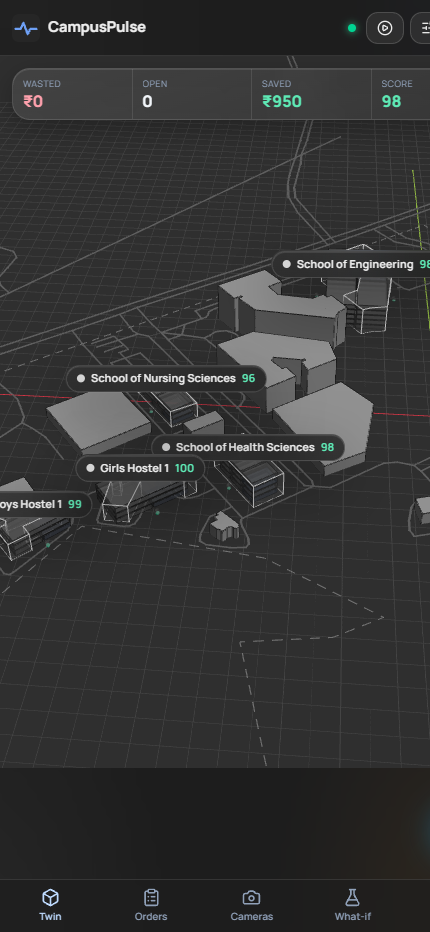
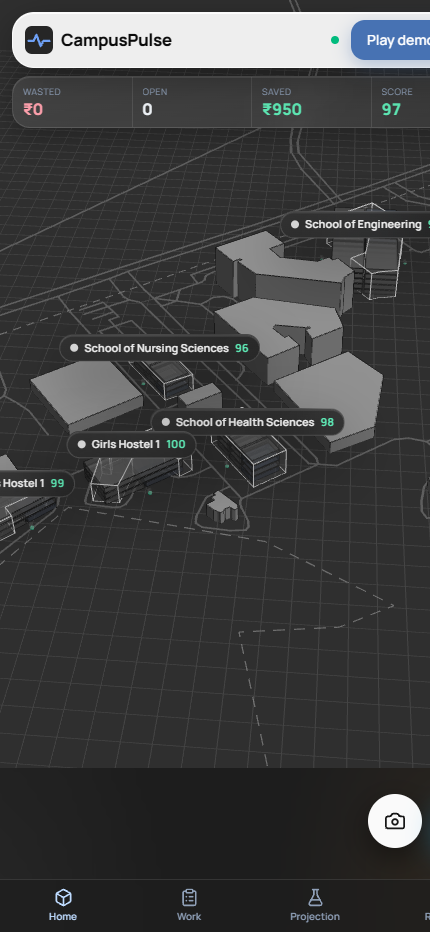
Floating pill navbar (Home, Work, Projection, Report) and separate camera button

diff --git a/frontend/src/App.jsx b/frontend/src/App.jsx
@@ -1,6 +1,6 @@
 import { lazy, Suspense, useEffect, useRef, useState } from 'react'
-import { NavLink, Route, Routes } from 'react-router-dom'
-import { Box, Camera, ClipboardList, FileText, FlaskConical, Loader2, PlayCircle } from 'lucide-react'
+import { NavLink, Route, Routes, useLocation } from 'react-router-dom'
+import { ArrowRight, Box, Camera, ClipboardList, FileText, FlaskConical, Loader2 } from 'lucide-react'
 import { useStore } from './store'
 import TelegramIcon from './components/TelegramIcon'
 import PhonePanel from './components/PhonePanel'
@@ -16,12 +16,12 @@ const IssuesPage = lazy(() => import('./pages/IssuesPage'))
 const WhatIfPage = lazy(() => import('./pages/WhatIfPage'))
 const ReportsPage = lazy(() => import('./pages/ReportsPage'))
 
+// Cameras is not in the nav: it has its own floating button next to the Telegram one
 const NAV = [
-  { to: '/', label: 'Twin', icon: Box },
-  { to: '/issues', label: 'Work orders', short: 'Orders', icon: ClipboardList },
-  { to: '/cameras', label: 'Cameras', icon: Camera },
-  { to: '/whatif', label: 'What-if', icon: FlaskConical },
-  { to: '/reports', label: 'Reports', icon: FileText },
+  { to: '/', label: 'Home', icon: Box },
+  { to: '/issues', label: 'Work', icon: ClipboardList },
+  { to: '/whatif', label: 'Projection', icon: FlaskConical },
+  { to: '/reports', label: 'Report', icon: FileText },
 ]
 
 function Clock() {
@@ -32,8 +32,8 @@ function Clock() {
   const d = new Date(clock)
   return (
     <div className="text-right leading-tight hidden md:block">
-      <div className="font-mono text-sm font-semibold">{d.toLocaleTimeString('en-IN', { hour: '2-digit', minute: '2-digit' })}</div>
-      <div className="text-[10px] text-slate-400">
+      <div className="font-mono text-sm font-semibold text-neutral-900">{d.toLocaleTimeString('en-IN', { hour: '2-digit', minute: '2-digit' })}</div>
+      <div className="text-[10px] text-neutral-500">
         {d.toLocaleDateString('en-IN', { weekday: 'short', day: 'numeric', month: 'short' })}
         {paused ? ' · paused' : speed > 1 ? ` · ${speed}×` : ''}
       </div>
@@ -52,6 +52,7 @@ export default function App() {
   const connected = useStore((s) => s.connected)
   const lastId = useStore((s) => s.snap?.feed?.at(-1)?.id ?? 0)
   const { toggleDemo, togglePhone, phoneOpen, startTour } = useStore()
+  const onTwin = useLocation().pathname === '/'
   const seen = useRef(0)
   const [unread, setUnread] = useState(false)
 
@@ -68,32 +69,35 @@ export default function App() {
 
   return (
     <div className="h-full flex flex-col">
-      <header className="no-print glass-bar flex items-center gap-3 md:gap-6 px-3 md:px-5 h-14 border-b border-line relative z-20 shrink-0">
-        <div className="flex items-center gap-2 shrink-0">
-          <img src="/favicon.svg" className="w-7 h-7" alt="" />
-          <span className="font-extrabold tracking-tight">CampusPulse</span>
-          {campus && <span className="hidden lg:inline-flex"><span className="chip !text-[11px]">{campus.short_name}</span></span>}
-        </div>
-        <nav className="hidden md:flex items-center gap-1">
+      {/* floating pill nav: links left, logo centred, demo button right */}
+      <header className="no-print navpill fixed z-30 top-3 inset-x-3 md:top-4 md:inset-x-auto md:left-1/2 md:-translate-x-1/2 md:w-[min(1120px,calc(100%-32px))]
+        h-14 md:h-16 flex items-center gap-3 px-3 md:px-4">
+        <nav className="hidden md:flex items-center gap-0.5">
           {NAV.map(({ to, label }) => (
             <NavLink key={to} to={to} end
-              className={({ isActive }) => `px-3 py-1.5 rounded-full text-sm font-semibold transition
-                ${isActive ? 'bg-blue-400/15 text-blue-100 ring-1 ring-blue-300/30' : 'text-slate-400 hover:text-slate-100 hover:bg-white/5'}`}>
+              className={({ isActive }) => `px-3.5 py-2 rounded-full text-[15px] transition
+                ${isActive ? 'bg-neutral-900/[0.07] text-neutral-950 font-semibold' : 'text-neutral-700 hover:text-neutral-950 hover:bg-neutral-900/[0.04]'}`}>
               {label}
             </NavLink>
           ))}
         </nav>
-        <div className="ml-auto flex items-center gap-1.5 md:gap-2 shrink-0">
+        <NavLink to="/" className="flex items-center gap-2 shrink-0 md:absolute md:left-1/2 md:-translate-x-1/2">
+          <img src="/favicon.svg" className="w-7 h-7" alt="" />
+          <span className="font-extrabold tracking-tight text-[17px] text-neutral-950">CampusPulse</span>
+          {campus && <span className="hidden xl:inline text-[11px] font-semibold text-neutral-500 bg-neutral-900/[0.06] rounded-full px-2 py-0.5">{campus.short_name}</span>}
+        </NavLink>
+        <div className="ml-auto flex items-center gap-3 shrink-0">
           <Clock />
-          <span className={`w-2 h-2 rounded-full mx-1 ${connected ? 'bg-emerald-400 shadow-[0_0_8px_#34d399]' : 'bg-rose-400'}`}
-            title={connected ? 'live' : 'offline'} />
-          <button className="btn !px-2.5 md:!px-3" onClick={startTour} title="Play the 2-minute guided demo">
-            <PlayCircle size={16} /><span className="hidden lg:inline">Play demo</span>
+          <span className={`w-2 h-2 rounded-full ${connected ? 'bg-emerald-500' : 'bg-rose-500'}`} title={connected ? 'live' : 'offline'} />
+          <button onClick={startTour} title="Play the 2-minute guided demo"
+            className="flex items-center gap-2.5 rounded-[14px] bg-[#4772b3] hover:bg-[#3f67a3] text-white font-semibold text-sm pl-4 pr-1.5 py-1.5 md:py-2 transition shadow-[0_6px_18px_rgba(71,114,179,0.35)]">
+            <span>Play demo</span>
+            <span className="w-7 h-7 rounded-full bg-white/20 flex items-center justify-center"><ArrowRight size={15} /></span>
           </button>
         </div>
       </header>
 
-      <main className="flex-1 min-w-0 min-h-0 overflow-auto pb-[68px] md:pb-0">
+      <main className={`flex-1 min-w-0 min-h-0 overflow-auto pb-[68px] md:pb-0 ${onTwin ? '' : 'pt-[72px] md:pt-[88px]'}`}>
         {!ready ? <div className="p-10 text-slate-400">Connecting to the campus twin…</div> : (
           <Suspense fallback={<Loading />}>
             <Routes>
@@ -108,15 +112,23 @@ export default function App() {
       </main>
 
       {/* phone: bottom tab bar */}
-      <nav className="no-print md:hidden fixed bottom-0 inset-x-0 z-30 glass-bar border-t border-line grid grid-cols-5 pb-[env(safe-area-inset-bottom)]">
-        {NAV.map(({ to, label, short, icon: Icon }) => (
+      <nav className="no-print md:hidden fixed bottom-0 inset-x-0 z-30 glass-bar border-t border-line grid grid-cols-4 pb-[env(safe-area-inset-bottom)]">
+        {NAV.map(({ to, label, icon: Icon }) => (
           <NavLink key={to} to={to} end
             className={({ isActive }) => `flex flex-col items-center gap-0.5 py-2 text-[10px] font-semibold ${isActive ? 'text-blue-200' : 'text-slate-400'}`}>
-            <Icon size={19} />{short || label}
+            <Icon size={19} />{label}
           </NavLink>
         ))}
       </nav>
 
+      {/* floating camera button (next to Telegram): opens the computer-vision page */}
+      {ready && (
+        <NavLink to="/cameras" title="Cameras" aria-label="Cameras"
+          className={({ isActive }) => `no-print fixed z-40 right-[82px] bottom-[84px] md:bottom-5 w-[54px] h-[54px] rounded-full flex items-center justify-center
+            bg-neutral-50 text-neutral-900 shadow-[0_10px_30px_rgba(0,0,0,0.45)] transition hover:scale-105 active:scale-95 ${isActive ? 'ring-2 ring-[#6ea0f5]' : ''}`}>
+          <Camera size={22} />
+        </NavLink>
+      )}
       {/* floating Telegram button: opens the staff messages drawer */}
       {ready && (
         <button onClick={togglePhone} title="Staff messages (Telegram)" aria-label="Staff messages"

diff --git a/frontend/src/pages/TwinPage.jsx b/frontend/src/pages/TwinPage.jsx
@@ -187,7 +187,7 @@ function KpiCard() {
     ['Score', `${k.score}`, scoreTone(k.score)],
   ]
   return (
-    <div className="absolute left-3 top-3 md:left-4 md:top-4 glass grid grid-cols-4 divide-x divide-white/10 pointer-events-none max-md:right-3">
+    <div className="absolute left-3 top-[76px] md:left-4 md:top-[96px] glass grid grid-cols-4 divide-x divide-white/10 pointer-events-none max-md:right-3">
       {items.map(([l, v, tone]) => (
         <div key={l} className="px-2.5 py-2 md:px-4 md:py-2.5 min-w-0">
           <div className="text-[9px] md:text-[10px] uppercase tracking-wider text-slate-400 truncate">{l}</div>
@@ -224,7 +224,7 @@ export default function TwinPage() {
       {/* details panel for the selected room/bin; the issues overview is hidden while SHOW_OVERVIEW is false.
           desktop: floating side panel; phone: bottom sheet over the lower part of the map */}
       {(selected || SHOW_OVERVIEW) && <aside className="glass-panel absolute z-10 p-3 overflow-auto
-        md:right-3 md:top-3 md:bottom-3 md:w-[380px]
+        md:right-3 md:top-[96px] md:bottom-3 md:w-[380px]
         max-md:inset-x-2 max-md:bottom-2 max-md:h-[44%] max-md:!rounded-b-2xl max-md:!rounded-t-3xl">
         <div className="md:hidden mx-auto mb-2 h-1 w-10 rounded-full bg-white/25" />
         {selected ? <Drawer id={selected} /> : <Overview />}

diff --git a/frontend/src/components/PhonePanel.jsx b/frontend/src/components/PhonePanel.jsx
@@ -24,7 +24,7 @@ export default function PhonePanel() {
   }
 
   return (
-    <aside className="no-print glass-strong fixed inset-x-2 top-[64px] bottom-[148px] md:inset-auto md:right-4 md:top-[68px] md:bottom-[88px] md:w-[360px] z-40 flex flex-col p-3 pop">
+    <aside className="no-print glass-strong fixed inset-x-2 top-[76px] bottom-[148px] md:inset-auto md:right-4 md:top-[96px] md:bottom-[88px] md:w-[360px] z-40 flex flex-col p-3 pop">
       <div className="flex items-center gap-2 mb-2">
         {app === 'Telegram' ? <TelegramIcon size={32} />
           : <div className="w-8 h-8 rounded-full flex items-center justify-center bg-blue-500"><MessageCircle size={16} className="text-white" /></div>}

diff --git a/frontend/src/components/Twin3D.jsx b/frontend/src/components/Twin3D.jsx
@@ -213,7 +213,7 @@ export default function Twin3D() {
           {hoverLive && hoverRoom.type === 'washroom' && <div className="text-slate-300">{hoverLive.flow_lpm} L/min</div>}
         </div>
       )}
-      <button className="btn !py-1 !px-3 text-xs absolute left-[104px] bottom-4 max-md:top-[84px] max-md:bottom-auto max-md:left-auto max-md:right-3"
+      <button className="btn !py-1 !px-3 text-xs absolute left-[104px] bottom-4 max-md:top-[148px] max-md:bottom-auto max-md:left-auto max-md:right-3"
         onClick={() => controls.current?.reset()}>
         <LocateFixed size={13} /> <span className="hidden md:inline">Reset view</span>
       </button>

diff --git a/frontend/src/components/CopilotDrawer.jsx b/frontend/src/components/CopilotDrawer.jsx
@@ -44,7 +44,7 @@ export default function CopilotDrawer() {
 
   if (!copilotOpen) return null
   return (
-    <div className="no-print fixed inset-2 top-16 md:inset-auto md:right-4 md:top-16 md:bottom-4 md:w-[440px] glass-strong flex flex-col shadow-2xl z-50 pop">
+    <div className="no-print fixed inset-2 top-[76px] md:inset-auto md:right-4 md:top-[96px] md:bottom-4 md:w-[440px] glass-strong flex flex-col shadow-2xl z-50 pop">
       <div className="flex items-center gap-2 p-3 border-b border-line">
         <Sparkles size={18} className="text-blue-300" />
         <div className="font-semibold">Ask your campus</div>

diff --git a/frontend/src/index.css b/frontend/src/index.css
@@ -72,6 +72,16 @@ body::before {
   -webkit-backdrop-filter: blur(26px) saturate(160%);
   border-radius: 22px;
 }
+/* floating light pill nav */
+.navpill {
+  background: rgba(250, 250, 250, 0.94);
+  border: 1px solid rgba(255, 255, 255, 0.7);
+  border-radius: 22px;
+  box-shadow: 0 12px 40px rgba(0, 0, 0, 0.35), inset 0 1px 0 rgba(255, 255, 255, 0.9);
+  backdrop-filter: blur(16px);
+  -webkit-backdrop-filter: blur(16px);
+  color: #171717;
+}
 .well { background: rgba(0, 0, 0, 0.22); border: 1px solid rgba(255, 255, 255, 0.06); border-radius: 14px; }
 
 .chip {

diff --git a/README.md b/README.md
@@ -10,9 +10,9 @@ Every Indian college does its green audit (NAAC Criterion 7) once a year, by han
 
 1. **Open the live app:** https://campuspulse-jb26.onrender.com
    (free hosting: the first load after a quiet spell can take ~30 s while the server wakes up)
-2. Click **Play the 2-minute demo**. It runs by itself: lights are left on in a classroom, CampusPulse detects and prices the waste, writes a work order, the staff member taps Done, the twin verifies the fix, then it tours a leak, work orders, cameras, the what-if simulator and the NAAC report.
+2. Click **Play the 2-minute demo**. It runs by itself: lights are left on in a classroom, CampusPulse detects and prices the waste, writes a work order, the staff member taps Done, the twin verifies the fix, then it tours a leak, work orders, cameras, the projection (what-if) simulator and the NAAC report.
 3. **Optional, to see the staff side on your own phone:** open [t.me/campuspulse_bot?start=judge](https://t.me/campuspulse_bot?start=judge) in Telegram and tap Start before playing the demo. You will receive a copy of each work order and can tap **Done** yourself.
-4. **Try the computer vision:** open **Cameras** and click a sample bin photo (or upload your own). An overflowing bin raises a real issue on the twin. With a webcam, start the live camera: it counts people and checks whether lights are on.
+4. **Try the computer vision:** tap the round camera button (bottom right) and click a sample bin photo (or upload your own). An overflowing bin raises a real issue on the twin. With a webcam, start the live camera: it counts people and checks whether lights are on.
 5. **Explore:** click any room or bin for its live readings and QR code, open the staff messages with the Telegram button, or press **Ctrl+D** to trigger a scenario.
 
 Everyone viewing the demo shares one simulated campus, so you may see issues others triggered.
